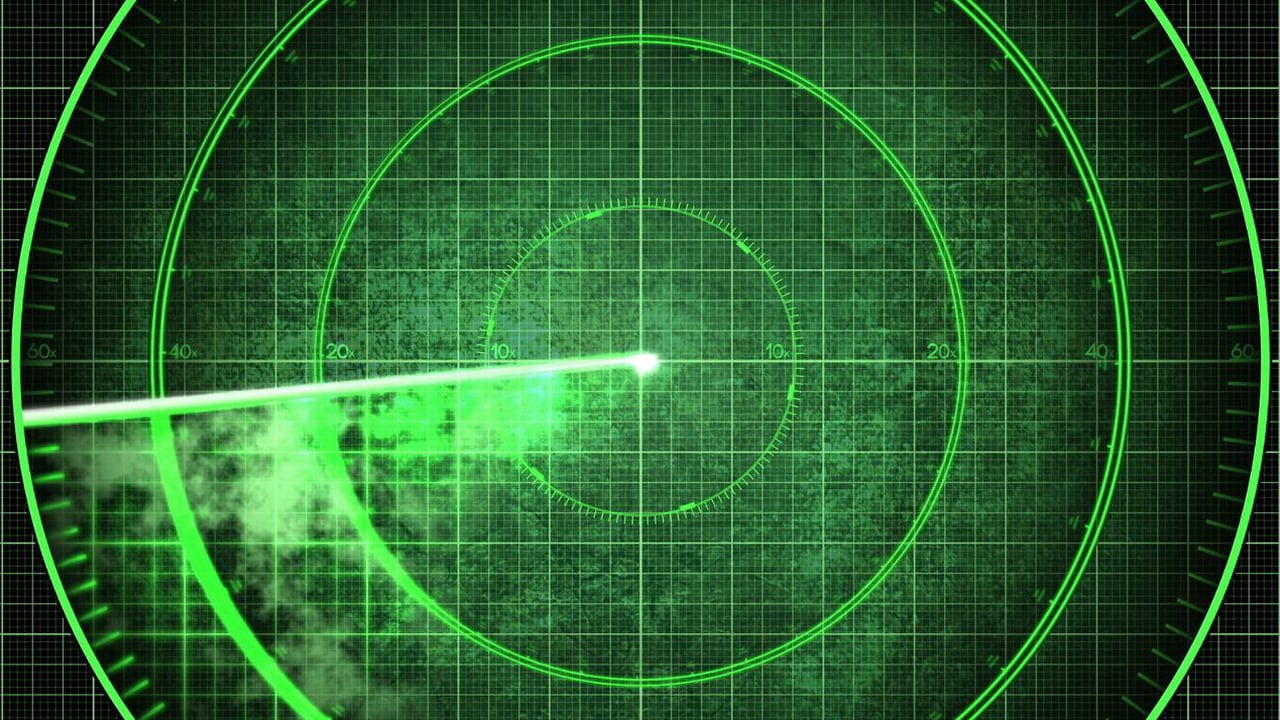
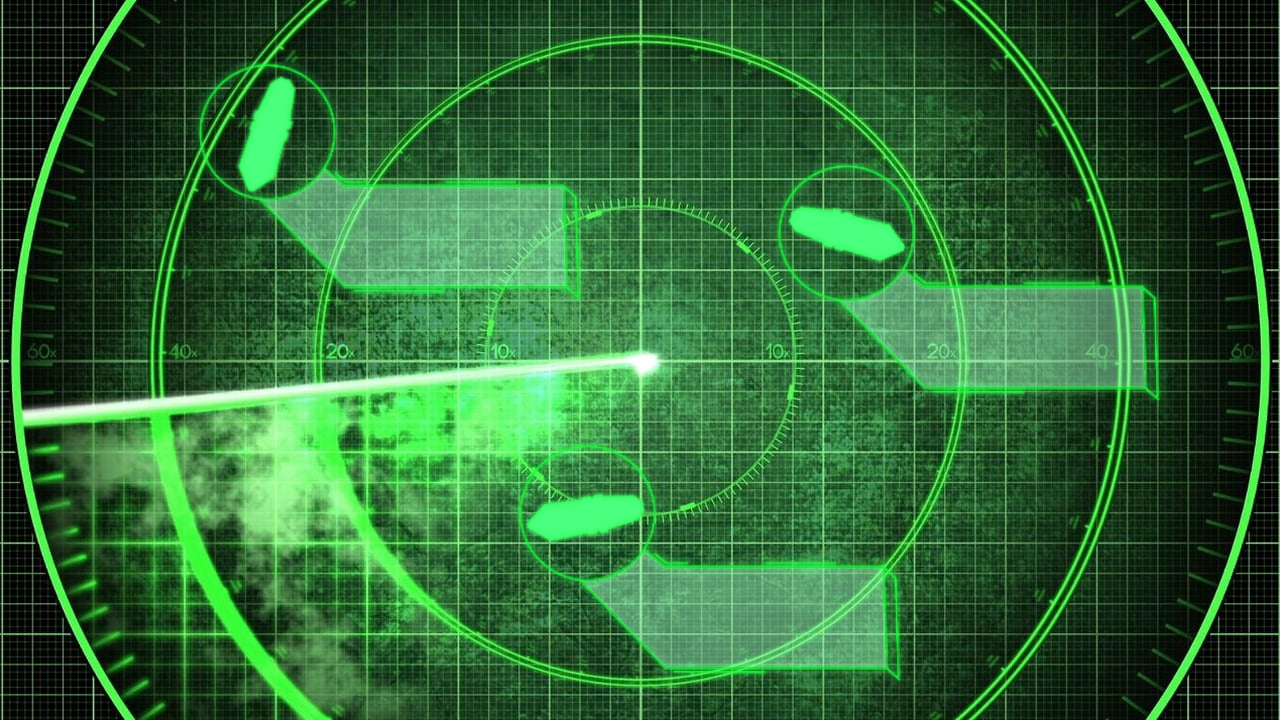
grote aanpassingen
noah kevin laurens

diff --git a/main/main/main.py b/main/main/main.py
@@ -3,7 +3,8 @@
 import pygame
 import math
 
-#golbal image files
+#global image files
+radar = pygame.image.load('radar.jpg')
 background_startscherm = pygame.image.load('radar background.jpg')
 boten = pygame.image.load('boten achtergrond.jpg')
 black=(0,0,0)
@@ -32,18 +33,18 @@ def text_objects(text, font):
     textSurface = font.render(text, True, black)
     return textSurface, textSurface.get_rect()
 
-def button (screen,msg,x,y,w,h,ic,ac, action = None):
+def button (screen,msg,x,y,w,h,ic,ac,ilw,alw,fs,action = None):
     mouse =pygame.mouse.get_pos()
     click = pygame.mouse.get_pressed()
 
     if x+w > mouse[0] > x and y+h > mouse[1] > y:
-        pygame.draw.rect(screen,ac,(x,y,w,h),5)
+        pygame.draw.rect(screen,ac,(x,y,w,h),ilw)
         if click[0] == 1 and action != None:
             action()
     else:
-        pygame.draw.rect(screen,ic,(x,y,w,h),1)
+        pygame.draw.rect(screen,ic,(x,y,w,h),alw)
 
-    smallText = pygame.font.Font("freesansbold.ttf",20)
+    smallText = pygame.font.Font("freesansbold.ttf",fs)
     textSurf, textRect = text_objects(msg, smallText)
     textRect.center = ( (x+(w/2)), (y+(h/2)))
     screen.blit(textSurf, textRect)
@@ -63,10 +64,10 @@ def play_screen():
 
     while not process_events():
         # Clear Screen
-        screen.blit(background_startscherm,[0,0])
+        screen.blit(radar,[0,0])
 
-        button (screen,"Help",1000,50,200,75,red,bright_red)
-
+        button (screen,"Menu",1160,20,100,50,red,bright_red,0,0,20)
+        button (screen,"Back",20,650,100,50,red,bright_red,0,0,20, program)
         
         #Flip the screen
         pygame.display.flip()
@@ -84,10 +85,10 @@ def instructions_screen():
 
     while not process_events():
         # Clear Screen
-        screen.blit(background_startscherm,[0,0])
+        screen.blit(radar,[0,0])
         
         #TESTBUTTON
-        button (screen,"Back",640-100,576-37.5,200,75,red,bright_red, program)
+        button (screen,"Back",20,650,100,50,red,bright_red,0,0,20, program)
 
         #Flip the screen
         pygame.display.flip()
@@ -105,10 +106,10 @@ def highsccores_screen():
 
     while not process_events():
         # Clear Screen
-        screen.blit(background_startscherm,[0,0])
+        screen.blit(radar,[0,0])
         
         #TESTBUTTON
-        button (screen,"Back",640-100,576-37.5,200,75,red,bright_red, program)
+        button (screen,"Back",20,650,100,50,red,bright_red,0,0,20, program)
 
         #Flip the screen
         pygame.display.flip()
@@ -130,10 +131,10 @@ def program():
         screen.blit(background_startscherm,[0,0])
 
         #button
-        button (screen,"Start!",250,200,200,75,green,bright_green, play_screen)
-        button (screen,"Instructions",900,400,200,75,green,bright_green, instructions_screen)
-        button (screen,"Highscores",680,160,200,75,green,bright_green, highsccores_screen)
-        button (screen,"Quit",640-100,576-37.5,200,75,red,bright_red, quitgame)
+        button (screen,"Start!",350,200,200,75,green,bright_green,5,1,30, play_screen)
+        button (screen,"Instructions",670,580,200,75,green,bright_green,5,1,30, instructions_screen)
+        button (screen,"Highscores",930,300,200,75,green,bright_green,5,1,30, highsccores_screen)
+        button (screen,"Quit",20,650,100,50,red,bright_red,0,0,20, quitgame)
 
         #Flip the screen
         pygame.display.flip()
